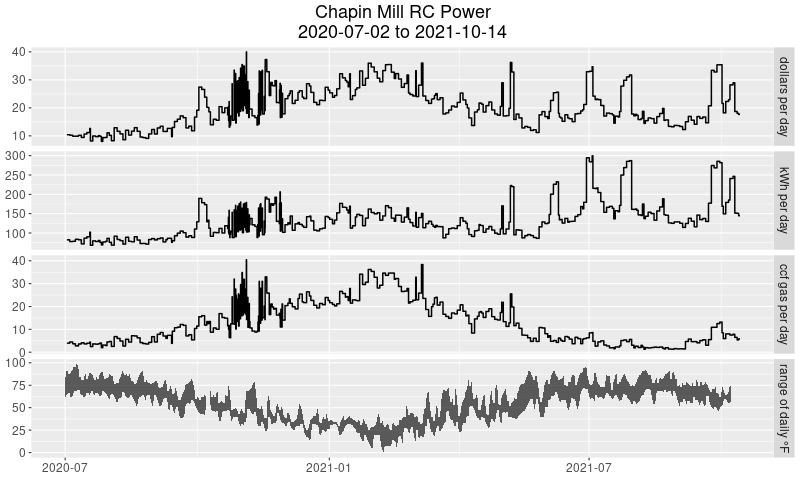
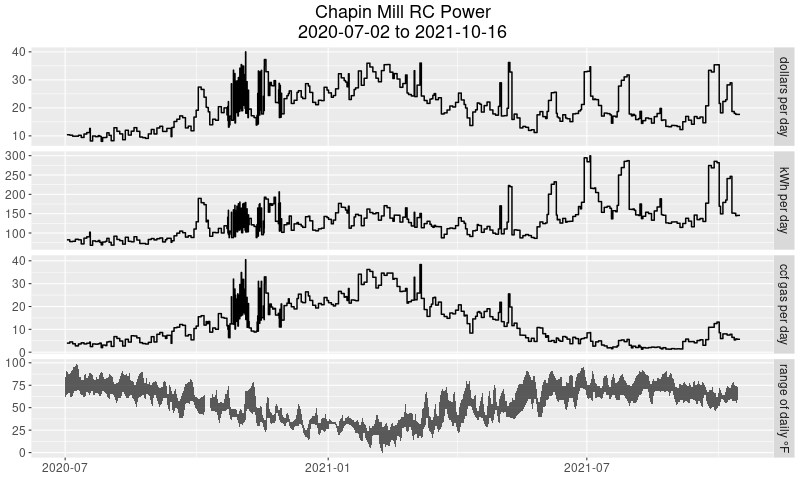
auto commit

diff --git a/index.html b/index.html
@@ -3,7 +3,7 @@
 "http://www.w3.org/TR/xhtml1/DTD/xhtml1-strict.dtd">
 <html xmlns="http://www.w3.org/1999/xhtml" lang="en" xml:lang="en">
 <head>
-<!-- 2021-10-15 Fri 09:18 -->
+<!-- 2021-10-16 Sat 08:12 -->
 <meta http-equiv="Content-Type" content="text/html;charset=utf-8" />
 <meta name="viewport" content="width=device-width, initial-scale=1" />
 <title>Chapin Mill Energy</title>
@@ -241,13 +241,13 @@
 <body>
 <div id="content">
 <h1 class="title">Chapin Mill Energy</h1>
-<div id="outline-container-orgaaa6729" class="outline-2">
-<h2 id="orgaaa6729">Energy Comparisons</h2>
-<div class="outline-text-2" id="text-orgaaa6729">
+<div id="outline-container-org74536de" class="outline-2">
+<h2 id="org74536de">Energy Comparisons</h2>
+<div class="outline-text-2" id="text-org74536de">
 </div>
-<div id="outline-container-org5866c4d" class="outline-3">
-<h3 id="org5866c4d">Energy Consumption and Weather</h3>
-<div class="outline-text-3" id="text-org5866c4d">
+<div id="outline-container-org849dcba" class="outline-3">
+<h3 id="org849dcba">Energy Consumption and Weather</h3>
+<div class="outline-text-3" id="text-org849dcba">
 <p>
 The plot below describes outdoor air temperatures and the rate of
 retreat center energy consumption for the past few months. These
@@ -284,7 +284,7 @@ energy consumption.
 </p>
 
 
-<div id="org9b35c30" class="figure">
+<div id="org661c403" class="figure">
 <p><img src="energy.png" alt="energy.png" />
 </p>
 </div>
@@ -300,7 +300,7 @@ patterns.
 </p>
 
 
-<div id="org60a9564" class="figure">
+<div id="org63cd547" class="figure">
 <p><img src="dollars.png" alt="dollars.png" />
 </p>
 </div>
@@ -315,7 +315,7 @@ dollar cost&#x2014;over all times of the year and over all events.
 </p>
 
 
-<div id="orgc445f66" class="figure">
+<div id="org043eee9" class="figure">
 <p><img src="hist.png" alt="hist.png" />
 </p>
 </div>
@@ -352,7 +352,7 @@ within 45 and 60 dollars.
 </p>
 
 
-<div id="org138f9fe" class="figure">
+<div id="orgf5a38dd" class="figure">
 <p><img src="regime.png" alt="regime.png" />
 </p>
 </div>
@@ -382,7 +382,7 @@ heated for sesshin setup.)
 </p>
 
 
-<div id="orgc6a3495" class="figure">
+<div id="orgd8be26d" class="figure">
 <p><img src="energy2.png" alt="energy2.png" />
 </p>
 </div>
@@ -398,7 +398,7 @@ value is the average of the temperature readings over that period.
 </p>
 
 
-<div id="orgb824424" class="figure">
+<div id="org3ceefbf" class="figure">
 <p><img src="scatter.png" alt="scatter.png" />
 </p>
 </div>
@@ -412,9 +412,9 @@ the results would not be very interesting.
 </div>
 </div>
 
-<div id="outline-container-orgb62d073" class="outline-3">
-<h3 id="orgb62d073">Natural gas</h3>
-<div class="outline-text-3" id="text-orgb62d073">
+<div id="outline-container-orgd1e7f91" class="outline-3">
+<h3 id="orgd1e7f91">Natural gas</h3>
+<div class="outline-text-3" id="text-orgd1e7f91">
 <p>
 For a given level of occupancy of the retreat center it would be
 natural to consider gas consumption as consisting of two parts:
@@ -520,16 +520,16 @@ predictions for times that are either idle, sesshin, SIMT or UR.)
 </p>
 
 
-<div id="orga2fe572" class="figure">
+<div id="orgd9b73d4" class="figure">
 <p><img src="diagnostic.png" alt="diagnostic.png" />
 </p>
 </div>
 </div>
 </div>
 
-<div id="outline-container-org180efb3" class="outline-3">
-<h3 id="org180efb3">Electricity</h3>
-<div class="outline-text-3" id="text-org180efb3">
+<div id="outline-container-org09e48cf" class="outline-3">
+<h3 id="org09e48cf">Electricity</h3>
+<div class="outline-text-3" id="text-org09e48cf">
 <p>
 For the period under consideration electricity usage did not vary
 with outside air temperature in a significant way. The data only
@@ -604,9 +604,39 @@ dollars respectively.
 </div>
 </div>
 
-<div id="outline-container-org9dc3925" class="outline-2">
-<h2 id="org9dc3925">Details</h2>
-<div class="outline-text-2" id="text-org9dc3925">
+<div id="outline-container-org680cc9b" class="outline-2">
+<h2 id="org680cc9b">Summary of Rental Impact</h2>
+<div class="outline-text-2" id="text-org680cc9b">
+<p>
+Taking a SIMT retreat to be typical of renters in general and
+assuming the usual costs for gas and electricity
+(<code>55</code> cents per ccf and <code>10</code>
+cents per killowatt hour) we can summarize the additional energy
+expense of winter and summer events and contrast that with the
+ordinary expense when nothing special is going on.
+</p>
+
+<p>
+On a typical winter day renters use <code>72</code> ccf
+(<code>39</code> dollars) and <code>230</code> kWh
+(<code>23</code> dollars) for a total of <code>62</code> dollars while on a summer day they use <code>5</code>
+ccf (<code>3</code> dollars) and <code>230</code> kWh
+(<code>23</code> dollars) for a total of <code>26</code> dollars.
+</p>
+
+<p>
+The corresponding values for idle times are <code>29</code> ccf
+(<code>16</code> dollars) and <code>107</code> kWh
+(<code>11</code> dollars) for a total of <code>27</code> dollars in the winter and <code>5</code> ccf
+(<code>3</code> dollars) and <code>107</code> kWh
+(<code>11</code> dollars) for a total of <code>14</code> dollars in the summer.
+</p>
+</div>
+</div>
+
+<div id="outline-container-org3567101" class="outline-2">
+<h2 id="org3567101">Details</h2>
+<div class="outline-text-2" id="text-org3567101">
 <p>
 The natural gas model is
 \[
@@ -801,7 +831,7 @@ where \(y\) is electricity consumption in kWh per day and the
 </div>
 </div>
 <div id="postamble" class="status">
-<p class="date">Created: 2021-10-15 Fri 09:18</p>
+<p class="date">Created: 2021-10-16 Sat 08:12</p>
 <p class="validation"><a href="https://validator.w3.org/check?uri=referer">Validate</a></p>
 </div>
 </body>
